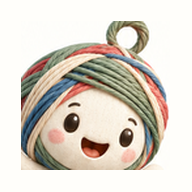
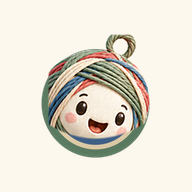
Loopy logosu tamamlandı: kesik alt ve kenarlar sargıyla kapandı, ikonlar yenilendi

diff --git a/tools/build_loopy.py b/tools/build_loopy.py
@@ -1,0 +1,127 @@
+# Demodaki kırpık Loopy başından tam logo üretir: yün yumağın kesik yerlerini aynı renkte
+# sargılarla tamamlar, çeneyi yuvarlar, halkanın içini saydam yapar. Çıktılar: public/assets.
+# Çalıştırma: python tools/build_loopy.py <demo-yuz.png>   (LoopWear_Demo_2.html içindeki 130x117 görsel)
+import sys
+from collections import deque
+import numpy as np
+from PIL import Image, ImageDraw, ImageFilter
+
+K = 6  # büyütme
+CROP_W = 114  # sağındaki konuşma balonu parçaları dışarıda kalır
+BG = (252, 248, 237)  # temanın --bg rengi
+GREEN, BEIGE, BLUE, RED = (92, 124, 98), (226, 204, 168), (63, 95, 134), (196, 96, 90)
+# Dıştan içe sargılar: (kalınlık birimi, renk)
+BANDS = [(9, GREEN), (5, BEIGE), (7, BLUE), (8, GREEN), (5, RED), (7, BEIGE), (9, GREEN), (6, BLUE), (9, GREEN), (6, BEIGE), (60, GREEN)]
+
+
+def flood(mask, seeds):
+    h, w = mask.shape
+    seen = np.zeros_like(mask)
+    q = deque()
+    for y, x in seeds:
+        if mask[y, x] and not seen[y, x]:
+            seen[y, x] = True
+            q.append((y, x))
+    while q:
+        y, x = q.popleft()
+        for n, m in ((y + 1, x), (y - 1, x), (y, x + 1), (y, x - 1)):
+            if 0 <= n < h and 0 <= m < w and mask[n, m] and not seen[n, m]:
+                seen[n, m] = True
+                q.append((n, m))
+    return seen
+
+
+def fit_circle(pts):
+    x, y = np.array(pts, float).T
+    A = np.c_[2 * x, 2 * y, np.ones(len(x))]
+    sol = np.linalg.lstsq(A, x * x + y * y, rcond=None)[0]
+    return sol[0], sol[1], float(np.sqrt(sol[2] + sol[0] ** 2 + sol[1] ** 2))
+
+
+def build(src):
+    im = Image.open(src).convert('RGB').crop((0, 0, CROP_W, 117))
+    a = np.asarray(im).astype(int)
+    h, w, _ = a.shape
+    white = a.min(axis=2) >= 232
+    edge = [(0, x) for x in range(w)] + [(y, w - 1) for y in range(h)]
+    outside = flood(white, edge)
+    hole = white & ~outside
+    hole[int(h * 0.3):, :] = False
+    bg = outside | hole
+    fg = ~bg
+
+    # Daire: halkanın olmadığı üst sol sınır ve sağ sınır noktalarından
+    pts = []
+    for y in range(int(h * 0.42), int(h * 0.8)):
+        xs = np.where(fg[y])[0]
+        if len(xs):
+            pts.append((xs[-1] + 1, y))
+    for x in range(int(w * 0.12), int(w * 0.5)):
+        ys = np.where(fg[:, x])[0]
+        if len(ys):
+            pts.append((x, ys[0]))
+    cx, cy, r = fit_circle(pts)
+
+    pad = 4
+    ox = (max(0, r - cx) + pad) * K
+    oy = pad * K
+    W = int((cx + r + pad) * K + ox)
+    H = int((cy + r + pad) * K + oy)
+    C = (cx * K + ox, cy * K + oy)
+    R = r * K
+
+    # Altta tam yumak: iç içe sargılar, her biri ince ipliklerden
+    disc = Image.new('RGBA', (W, H), (0, 0, 0, 0))
+    d = ImageDraw.Draw(disc)
+    d.ellipse((C[0] - R, C[1] - R, C[0] + R, C[1] + R), fill=GREEN + (255,))
+    off = 0.0
+    step = K * 0.55
+    for units, col in BANDS:
+        for i in range(int(units * K / step)):
+            rr = R - off
+            if rr <= 0:
+                break
+            shade = 1 + 0.2 * np.sin(i * 2.1)
+            c = tuple(min(255, int(v * shade)) for v in col) + (255,)
+            d.ellipse((C[0] - rr, C[1] - rr, C[0] + rr, C[1] + rr), outline=c, width=int(step) + 2)
+            off += step
+    disc = disc.filter(ImageFilter.GaussianBlur(K * 0.28))
+
+    big = im.resize((w * K, h * K), Image.LANCZOS).filter(ImageFilter.UnsharpMask(radius=K, percent=70, threshold=2))
+    alpha = Image.fromarray((fg * 255).astype(np.uint8)).resize((w * K, h * K), Image.BICUBIC).filter(ImageFilter.GaussianBlur(K * 0.35))
+    art = big.convert('RGBA')
+    art.putalpha(alpha)
+    layer = Image.new('RGBA', (W, H), (0, 0, 0, 0))
+    layer.paste(art, (int(ox), int(oy)))
+
+    # Özgün görsel yuvarlak bir çeneyle biter; kesik kenar ve eller sargının altında kalır
+    yy, xx = np.mgrid[0:H, 0:W]
+    cut = h * K + oy
+    dx = (xx - C[0]) / R
+    chin = cut - 3 * K - (dx ** 2) * 20 * K
+    fade = np.clip((chin - yy) / (2.2 * K), 0, 1)
+    left_edge = np.clip((xx - ox - 1.5 * K) / (2 * K), 0, 1)
+    la = np.asarray(layer).copy()
+    la[..., 3] = (la[..., 3] * fade * left_edge).astype(np.uint8)
+    canvas = Image.new('RGBA', (W, H), (0, 0, 0, 0))
+    canvas.alpha_composite(disc)
+    canvas.alpha_composite(Image.fromarray(la, 'RGBA'))
+    return canvas
+
+
+def icon(logo, size, scale, bg=BG):
+    out = Image.new('RGB', (size, size), bg)
+    k = size * scale / max(logo.size)
+    fit = logo.resize((int(logo.width * k), int(logo.height * k)), Image.LANCZOS)
+    out.paste(fit, ((size - fit.width) // 2, (size - fit.height) // 2), fit)
+    return out
+
+
+if __name__ == '__main__':
+    logo = build(sys.argv[1])
+    logo.save('public/assets/loopy-logo.png', optimize=True)
+    for name in ('face', 'wave'):
+        logo.resize((320, int(logo.height * 320 / logo.width)), Image.LANCZOS).save(f'public/assets/loopy-{name}.png', optimize=True)
+    icon(logo, 512, 0.68).save('public/assets/icon-512.png', optimize=True)
+    icon(logo, 192, 0.68).save('public/assets/icon-192.png', optimize=True)
+    print('logo', logo.size)
